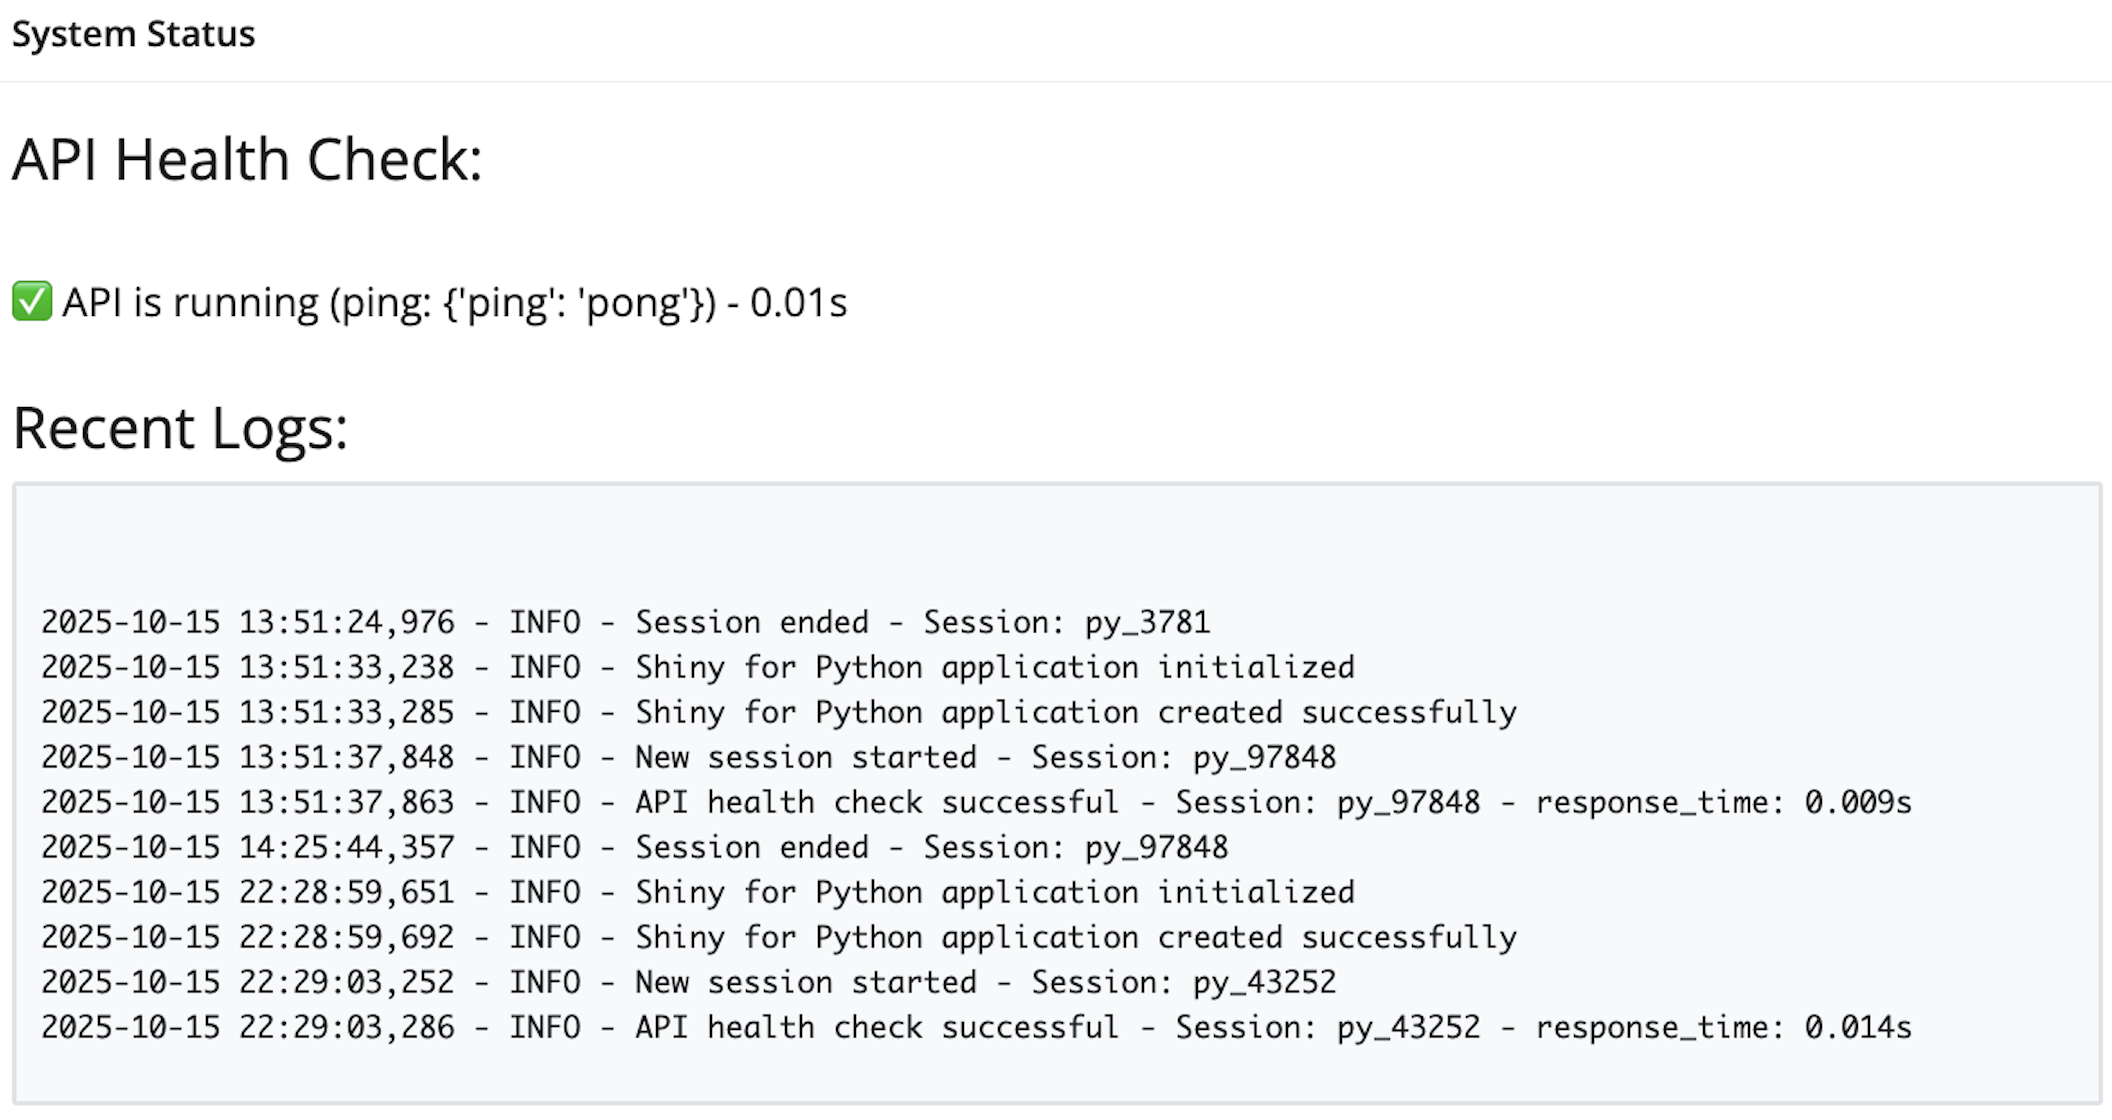
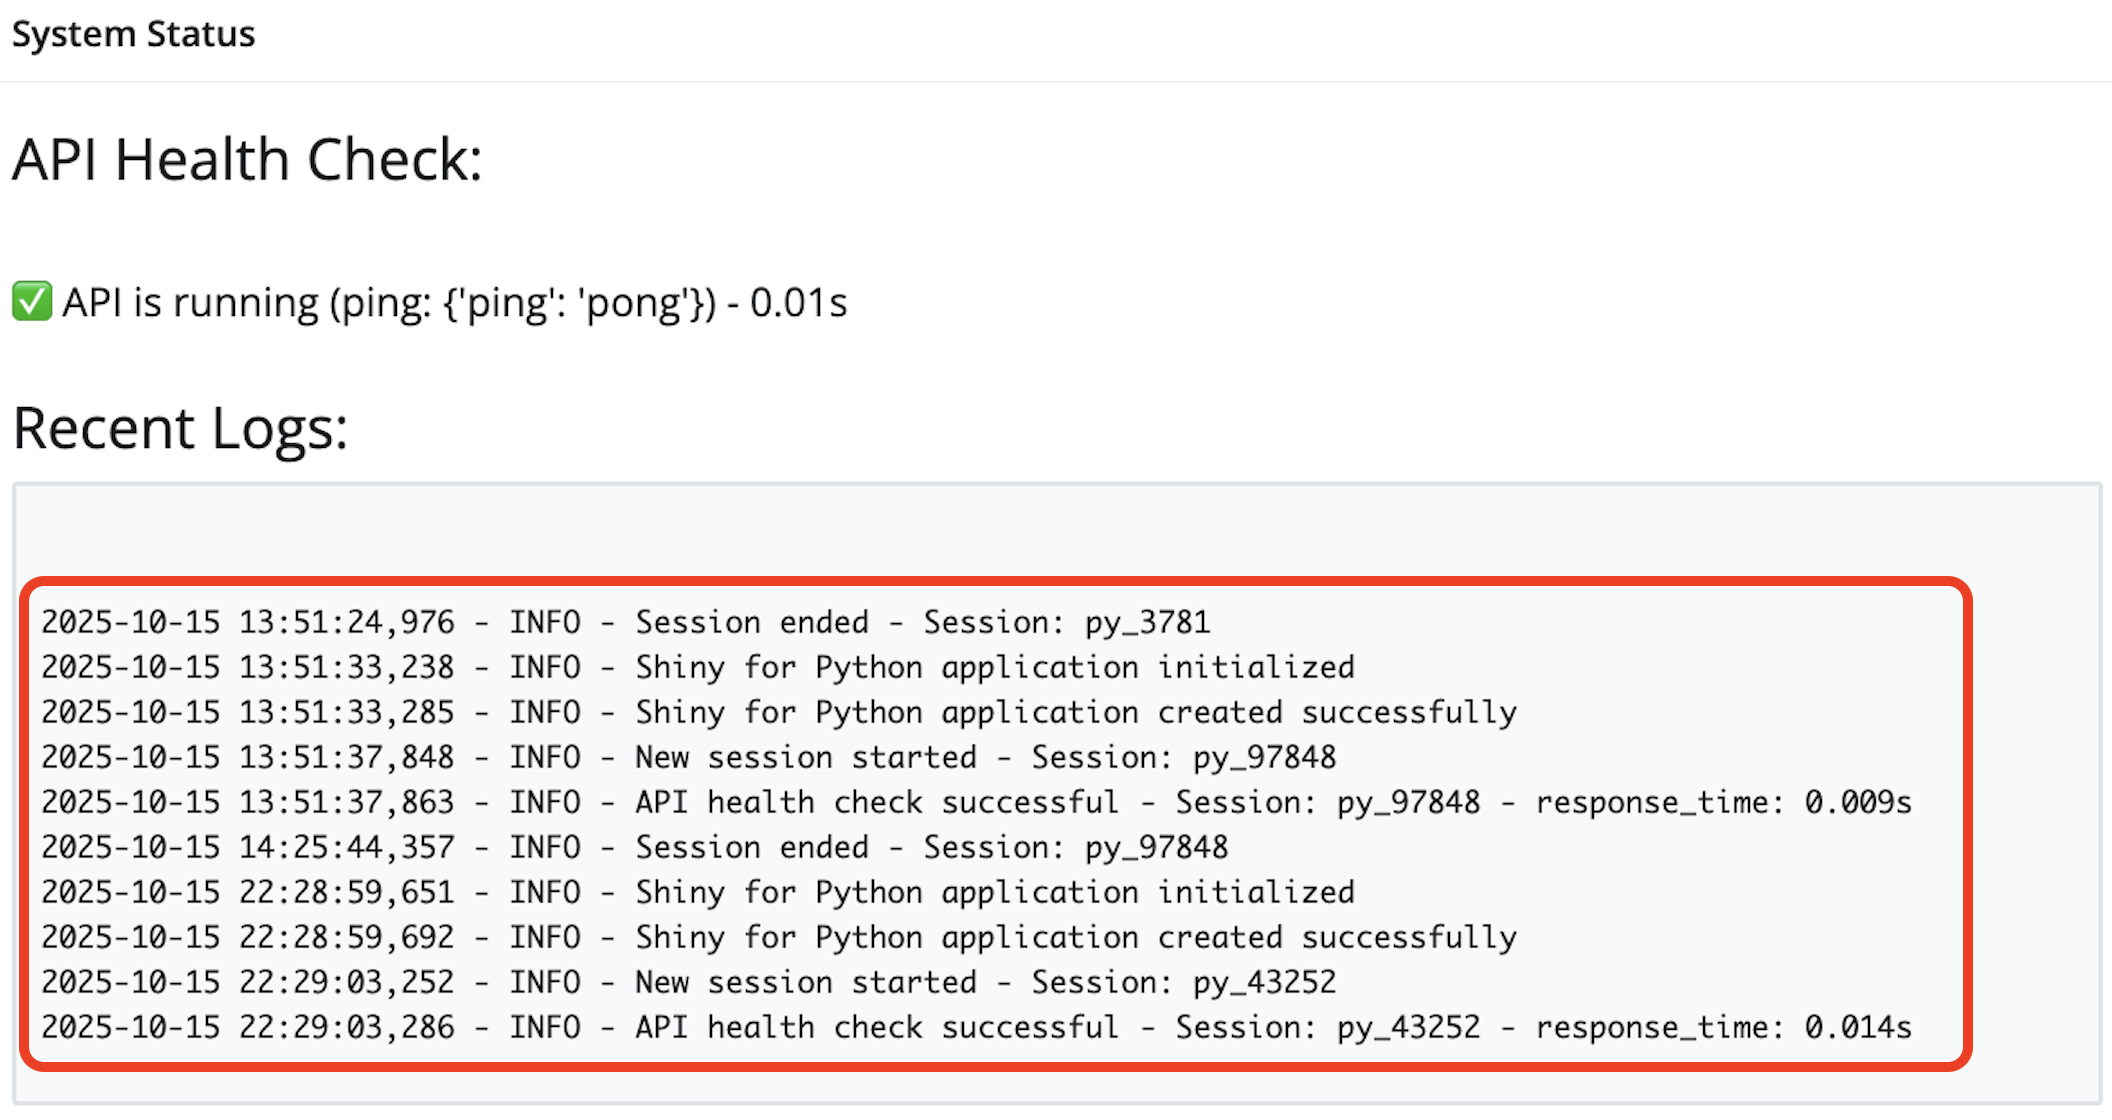
Built site for gh-pages

Changed region(s): [[0.0, 0.5, 0.9375, 0.9688]]

diff --git a/app-log-py.html b/app-log-py.html
@@ -6,7 +6,7 @@
 
 <meta name="viewport" content="width=device-width, initial-scale=1.0, user-scalable=yes">
 
-<meta name="dcterms.date" content="2025-10-16">
+<meta name="dcterms.date" content="2025-10-17">
 <meta name="description" content="DevOps for Data Science: Lab Solutions">
 
 <title>Python App Logging – DO4DS: Lab Solutions</title>
@@ -353,7 +353,12 @@ pre > code.sourceCode > span > a:first-child::before { text-decoration: underlin
   <li><a href="#last-updated" id="toc-last-updated" class="nav-link" data-scroll-target="#last-updated"><strong><em>Last updated</em></strong></a></li>
   </ul></li>
   </ul></li>
-  <li><a href="#finishing-touches" id="toc-finishing-touches" class="nav-link" data-scroll-target="#finishing-touches">Finishing touches</a></li>
+  <li><a href="#finishing-touches" id="toc-finishing-touches" class="nav-link" data-scroll-target="#finishing-touches">Finishing touches</a>
+  <ul>
+  <li><a href="#logging-levels-decision-tree" id="toc-logging-levels-decision-tree" class="nav-link" data-scroll-target="#logging-levels-decision-tree">Logging Levels Decision Tree</a></li>
+  <li><a href="#timeout-vs-connectionerror" id="toc-timeout-vs-connectionerror" class="nav-link" data-scroll-target="#timeout-vs-connectionerror">Timeout vs ConnectionError</a></li>
+  <li><a href="#log-file-monitoring-overview" id="toc-log-file-monitoring-overview" class="nav-link" data-scroll-target="#log-file-monitoring-overview">Log file monitoring overview</a></li>
+  </ul></li>
   </ul>
 </nav>
     </div>
@@ -373,7 +378,7 @@ pre > code.sourceCode > span > a:first-child::before { text-decoration: underlin
     <div>
     <div class="quarto-title-meta-heading">Published</div>
     <div class="quarto-title-meta-contents">
-      <p class="date">2025-10-16</p>
+      <p class="date">2025-10-17</p>
     </div>
   </div>
   
@@ -2130,11 +2135,7 @@ graph TB
 </dl>
 </div>
 </div>
-<div class="quarto-figure quarto-figure-center">
-<figure class="figure">
-<p><a href="img/lab4-py-api-health-check.png" class="lightbox" data-gallery="quarto-lightbox-gallery-9"><img src="img/lab4-py-api-health-check.png" class="img-fluid quarto-figure quarto-figure-center figure-img" style="width:70.0%"></a></p>
-</figure>
-</div>
+<p>Below is a sequence diagram illustrating the <code>ping</code> sent to the API, the logs generated, and the other possible (un-healthy) responses:</p>
 <div class="cell" data-fig-width="7" data-layout-align="center">
 <div class="cell-output-display">
 <div>
@@ -2204,6 +2205,12 @@ sequenceDiagram
 </div>
 </div>
 </div>
+<p>In the app, we can see the response rendered in the <strong>System Status</strong>:</p>
+<div class="quarto-figure quarto-figure-center">
+<figure class="figure">
+<p><a href="img/lab4-py-api-health-check.png" class="lightbox" data-gallery="quarto-lightbox-gallery-9"><img src="img/lab4-py-api-health-check.png" class="img-fluid quarto-figure quarto-figure-center figure-img" style="width:100.0%"></a></p>
+</figure>
+</div>
 </section>
 <section id="recent-application-logs" class="level4">
 <h4 class="anchored" data-anchor-id="recent-application-logs"><strong><em>Recent Application Logs</em></strong></h4>
@@ -2250,6 +2257,51 @@ sequenceDiagram
 <span data-code-cell="annotated-cell-27" data-code-lines="4" data-code-annotation="3">CSS styling for log output (similar to console)</span>
 </dd>
 </dl>
+</div>
+</div>
+<p>Below is an overview of recent log display architecture:</p>
+<div class="cell" data-fig-width="7" data-layout-align="center">
+<div class="cell-output-display">
+<div>
+<p></p><figure class="figure"><p></p>
+<div>
+<pre class="mermaid mermaid-js">%%{init: {'theme': 'neutral', 'look': 'handDrawn', 'themeVariables': { 'fontFamily': 'monospace'}}}%%
+
+graph TB
+    subgraph UI["UI"]
+        subgraph H5["ui.h5() Header"]
+            subgraph DIV["ui.div() Container"]
+                C(["&lt;strong&gt;ui.output_text()&lt;/strong&gt;&lt;br&gt;display"])
+            end
+        end
+
+    end
+    
+    subgraph SERVER["Server"]
+        D("&lt;strong&gt;@reactive.file_reader()&lt;/strong&gt;&lt;br/&gt;reads &lt;strong&gt;log_file_content&lt;/strong&gt;") --&gt; E(["&lt;strong&gt;@render.text&lt;/strong&gt;&lt;br/&gt;recent_logs_display"])
+    end
+    
+    subgraph FS["File System"]
+        F("&lt;strong&gt;shiny_app.log&lt;/strong&gt;&lt;br&gt;file")
+    end
+    
+    subgraph WRITE["Log Writers"]
+        G("Application Events") -.Triggers.-&gt; H("&lt;strong&gt;logging.info/error/etc&lt;/strong&gt;")
+        H --"Writes to"--&gt; F
+    end
+    
+    C -.Displays.-&gt; E
+    E -.Calls.-&gt; D
+    D -.Watches.-&gt; F
+    F -.Changes trigger.-&gt; D
+    
+    style C fill:#d8e4ff
+    style E fill:#31e981
+    
+</pre>
+</div>
+<p></p><figcaption> Log file monitoring architecture</figcaption> </figure><p></p>
+</div>
 </div>
 </div>
 <p>In the server, we define <code>log_file_content()</code>, which watches the file and re-runs function when it’s modified. The file is safely opened using <code>open()</code> and the <code>f</code> mode means read only (we do this so the file will automatically close).</p>
@@ -2323,7 +2375,7 @@ sequenceDiagram
 </div>
 </div>
 <p>The exception is generic and returns an error and safe default if log file can’t be read.</p>
-<p>For rendering, we get the last 10 lines for better monitoring and remove the whitespace with <code>line.rstrip()</code>. Before returning the logs, we combine the list of <code>lines</code> into single string with line breaks. A <code>debug</code> log is created the logs have been updated with the session id and the length (number of lines) of the recent logs.</p>
+<p>For rendering, we get the last 10 lines for better monitoring and remove the whitespace with <code>line.rstrip()</code>. Before returning the logs, we combine the list of <code>lines</code> into single string with line breaks. A <code>debug</code> log is created the logs have been updated with the session id and the length (number of lines) of the recent logs. If there are no logs, a message is returned.</p>
 <div class="cell">
 <div class="sourceCode cell-code" id="annotated-cell-29"><pre class="sourceCode python code-annotation-code code-with-copy code-annotated"><code class="sourceCode python"><button class="code-annotation-anchor" data-target-cell="annotated-cell-29" data-target-annotation="1">1</button><span id="annotated-cell-29-1" class="code-annotation-target"><a href="#annotated-cell-29-1" aria-hidden="true" tabindex="-1"></a>    <span class="at">@render.text</span></span>
 <button class="code-annotation-anchor" data-target-cell="annotated-cell-29" data-target-annotation="2">2</button><span id="annotated-cell-29-2" class="code-annotation-target"><a href="#annotated-cell-29-2" aria-hidden="true" tabindex="-1"></a>    <span class="kw">def</span> recent_logs_display():</span>
@@ -2393,12 +2445,7 @@ sequenceDiagram
 </dl>
 </div>
 </div>
-<p>If there are no logs, a message is returned.</p>
-<div class="quarto-figure quarto-figure-center">
-<figure class="figure">
-<p><a href="img/lab4-py-recent-logs.png" class="lightbox" data-gallery="quarto-lightbox-gallery-10"><img src="img/lab4-py-recent-logs.png" class="img-fluid quarto-figure quarto-figure-center figure-img" style="width:100.0%"></a></p>
-</figure>
-</div>
+<p>Below is a sequence diagram illustrating the log configuration, log file creation/storage, app initialization, and log file monitoring, reading, and display:</p>
 <div class="cell" data-fig-width="7" data-layout-align="center">
 <div class="cell-output-display">
 <div>
@@ -2454,6 +2501,12 @@ sequenceDiagram
 <p></p><figcaption> Recent log file monitoring</figcaption> </figure><p></p>
 </div>
 </div>
+</div>
+<p>After launching the app, we can see the 10 most recent log entries in the log file (including the previous app launches).</p>
+<div class="quarto-figure quarto-figure-center">
+<figure class="figure">
+<p><a href="img/lab4-py-recent-logs.png" class="lightbox" data-gallery="quarto-lightbox-gallery-10"><img src="img/lab4-py-recent-logs.png" class="img-fluid quarto-figure quarto-figure-center figure-img" style="width:100.0%"></a></p>
+</figure>
 </div>
 </section>
 <section id="last-updated" class="level4">
@@ -2516,6 +2569,7 @@ sequenceDiagram
 </dl>
 </div>
 </div>
+<p>The formatted date is rendered under the <strong>Last updated</strong> section at the bottom of the display.</p>
 <div class="quarto-figure quarto-figure-center">
 <figure class="figure">
 <p><a href="img/lab4-py-last-updated.png" class="lightbox" data-gallery="quarto-lightbox-gallery-11"><img src="img/lab4-py-last-updated.png" class="img-fluid quarto-figure quarto-figure-center figure-img" style="width:100.0%"></a></p>
@@ -2526,6 +2580,83 @@ sequenceDiagram
 </section>
 <section id="finishing-touches" class="level2">
 <h2 class="anchored" data-anchor-id="finishing-touches">Finishing touches</h2>
+<p>I’ve included a few more mermaid diagrams illustrating the topics covered in this lab.</p>
+<section id="logging-levels-decision-tree" class="level3">
+<h3 class="anchored" data-anchor-id="logging-levels-decision-tree">Logging Levels Decision Tree</h3>
+<div class="cell" data-fig-width="7" data-layout-align="center">
+<div class="cell-output-display">
+<div>
+<p></p><figure class="figure"><p></p>
+<div>
+<pre class="mermaid mermaid-js">%%{init: {'theme': 'neutral', 'look': 'handDrawn', 'themeVariables': { 'fontFamily': 'monospace'}}}%%
+
+graph LR
+    A(["Event"]) --&gt; B{"What happened?"}
+    
+    B --&gt;|Normal operation| C("&lt;strong&gt;logging.info()&lt;/strong&gt;")
+    B --&gt;|Unexpected but recoverable| D("&lt;strong&gt;logging.warning()&lt;/strong&gt;")
+    B --&gt;|Failed operation| E("&lt;strong&gt;logging.error()&lt;/strong&gt;")
+    B --&gt;|System crash imminent| F("&lt;strong&gt;logging.critical()&lt;/strong&gt;")
+    B --&gt;|Detailed troubleshooting| G("&lt;strong&gt;logging.debug()&lt;/strong&gt;")
+    
+    C --&gt; C1["Examples:&lt;br/&gt;1. Prediction successful&lt;br/&gt;2. Session started"]
+    D --&gt; D1["Examples:&lt;br/&gt;1. Slow response&lt;br/&gt;2. Unexpected format&lt;br/&gt;Timeout"]
+    E --&gt; E1["Examples:&lt;br/&gt;1. Connection refused&lt;br/&gt;2. HTTP error&lt;br/&gt;Parse failure"]
+    F --&gt; F1["Examples:&lt;br/&gt;1. Out of memory&lt;br/&gt;2. Database corrupted"]
+    G --&gt; G1["Examples:&lt;br/&gt;1. Variable values&lt;br/&gt;2. Detailed flow"]
+    
+    style C1 text-align:left
+    style D1 text-align:left
+    style E1 text-align:left
+    style F1 text-align:left
+    style G1 text-align:left
+    
+    style A fill:#d8e4ff
+    
+</pre>
+</div>
+<p></p><figcaption> Logging Levels Decision Tree</figcaption> </figure><p></p>
+</div>
+</div>
+</div>
+</section>
+<section id="timeout-vs-connectionerror" class="level3">
+<h3 class="anchored" data-anchor-id="timeout-vs-connectionerror">Timeout vs ConnectionError</h3>
+<div class="cell" data-fig-width="7" data-layout-align="center">
+<div class="cell-output-display">
+<div>
+<p></p><figure class="figure"><p></p>
+<div>
+<pre class="mermaid mermaid-js">%%{init: {'theme': 'neutral', 'look': 'handDrawn', 'themeVariables': { 'fontFamily': 'monospace'}}}%%
+
+sequenceDiagram
+    participant App as Health Check
+    participant Network
+    participant API
+    
+    Note over App,API: Scenario 1: Connection Error
+    App-&gt;&gt;Network: Try to connect
+    Network--xAPI: Cannot reach (port closed/firewall)
+    Network--&gt;&gt;App: ConnectionError
+    
+    Note over App,API: Scenario 2: Timeout
+    App-&gt;&gt;Network: Try to connect
+    Network-&gt;&gt;API: Connection established
+    App-&gt;&gt;API: GET /ping
+    Note over API: Processing...&lt;br/&gt;(taking too long)
+    Note over App: 5 seconds pass...
+    App--xAPI: Give up waiting
+    App-&gt;&gt;App: Timeout exception
+    
+</pre>
+</div>
+<p></p><figcaption> Timeout vs.&nbsp;connection error</figcaption> </figure><p></p>
+</div>
+</div>
+</div>
+</section>
+<section id="log-file-monitoring-overview" class="level3">
+<h3 class="anchored" data-anchor-id="log-file-monitoring-overview">Log file monitoring overview</h3>
 <p>Below is a diagram illustrating how the configured logs are updated in the application and displayed in the UI:</p>
 <div class="cell" data-fig-width="7" data-layout-align="center">
 <div class="cell-output-display">
@@ -2535,25 +2666,38 @@ sequenceDiagram
 <pre class="mermaid mermaid-js">%%{init: {'theme': 'neutral', 'look': 'handDrawn', 'themeVariables': { 'fontFamily': 'monospace'}}}%%
 
 sequenceDiagram
-    participant Main as App
-    participant Setup as setup_logging()
-    participant Logger as Logger
-    participant FileReader as @reactive.file_reader
-
-    Main-&gt;&gt;Setup: Call setup_logging()
-    Setup-&gt;&gt;Setup: Configure logging system
-    Setup--&gt;&gt;Main: Return str(log_file_path)
+    autonumber
+    participant User
+    participant ShinyUI as Shiny UI
+    participant ShinyServer as Shiny Server
+    participant Logger as Logging System
+    participant API as FastAPI
+    participant Model as Model
     
-    Main-&gt;&gt;Main: Store in log_file_path variable
-    Main-&gt;&gt;Logger: logging.info("App initialized")
-    Logger-&gt;&gt;Logger: Write to file &amp; console
+    User-&gt;&gt;ShinyUI: Enters penguin data&lt;br/&gt;(bill=45mm, species=Gentoo, sex=Male)
+    ShinyUI-&gt;&gt;ShinyServer: Input values change
+    ShinyServer-&gt;&gt;Logger: Log input values
     
-    Main-&gt;&gt;FileReader: @reactive.file_reader(log_file_path)
-    FileReader-&gt;&gt;FileReader: Monitor file for changes
-    FileReader--&gt;&gt;Main: Trigger UI updates when file changes
+    User-&gt;&gt;ShinyUI: Clicks "Predict" button
+    ShinyUI-&gt;&gt;ShinyServer: Trigger prediction
+    ShinyServer-&gt;&gt;Logger: Log prediction request start
+    
+    ShinyServer-&gt;&gt;API: POST /predict&lt;br/&gt;{"bill_length_mm": 45.0,&lt;br/&gt;"species_Gentoo": 1, ...}
+    API-&gt;&gt;API: Validate input format
+    API-&gt;&gt;Model: Pass data to model
+    Model-&gt;&gt;Model: Calculate prediction
+    Model-&gt;&gt;API: Return prediction (e.g., 4500.0)
+    API-&gt;&gt;ShinyServer: HTTP 200&lt;br/&gt;{".pred": [4500.0]}
+    
+    ShinyServer-&gt;&gt;Logger: Log successful prediction&lt;br/&gt;(response time, result)
+    ShinyServer-&gt;&gt;ShinyUI: Update display:&lt;br/&gt;"4500.0 grams"
+    ShinyUI-&gt;&gt;User: Shows prediction
+    
+    Note over ShinyServer,Logger: Simultaneously monitoring
+    Logger-&gt;&gt;ShinyUI: Update recent logs display
 </pre>
 </div>
-<p></p><figcaption> Python logging app</figcaption> </figure><p></p>
+<p></p><figcaption> App log file monitoring</figcaption> </figure><p></p>
 </div>
 </div>
 </div>
@@ -2594,6 +2738,7 @@ sequenceDiagram
 </dl>
 
 
+</section>
 </section>
 <section id="footnotes" class="footnotes footnotes-end-of-document" role="doc-endnotes">
 <hr>
